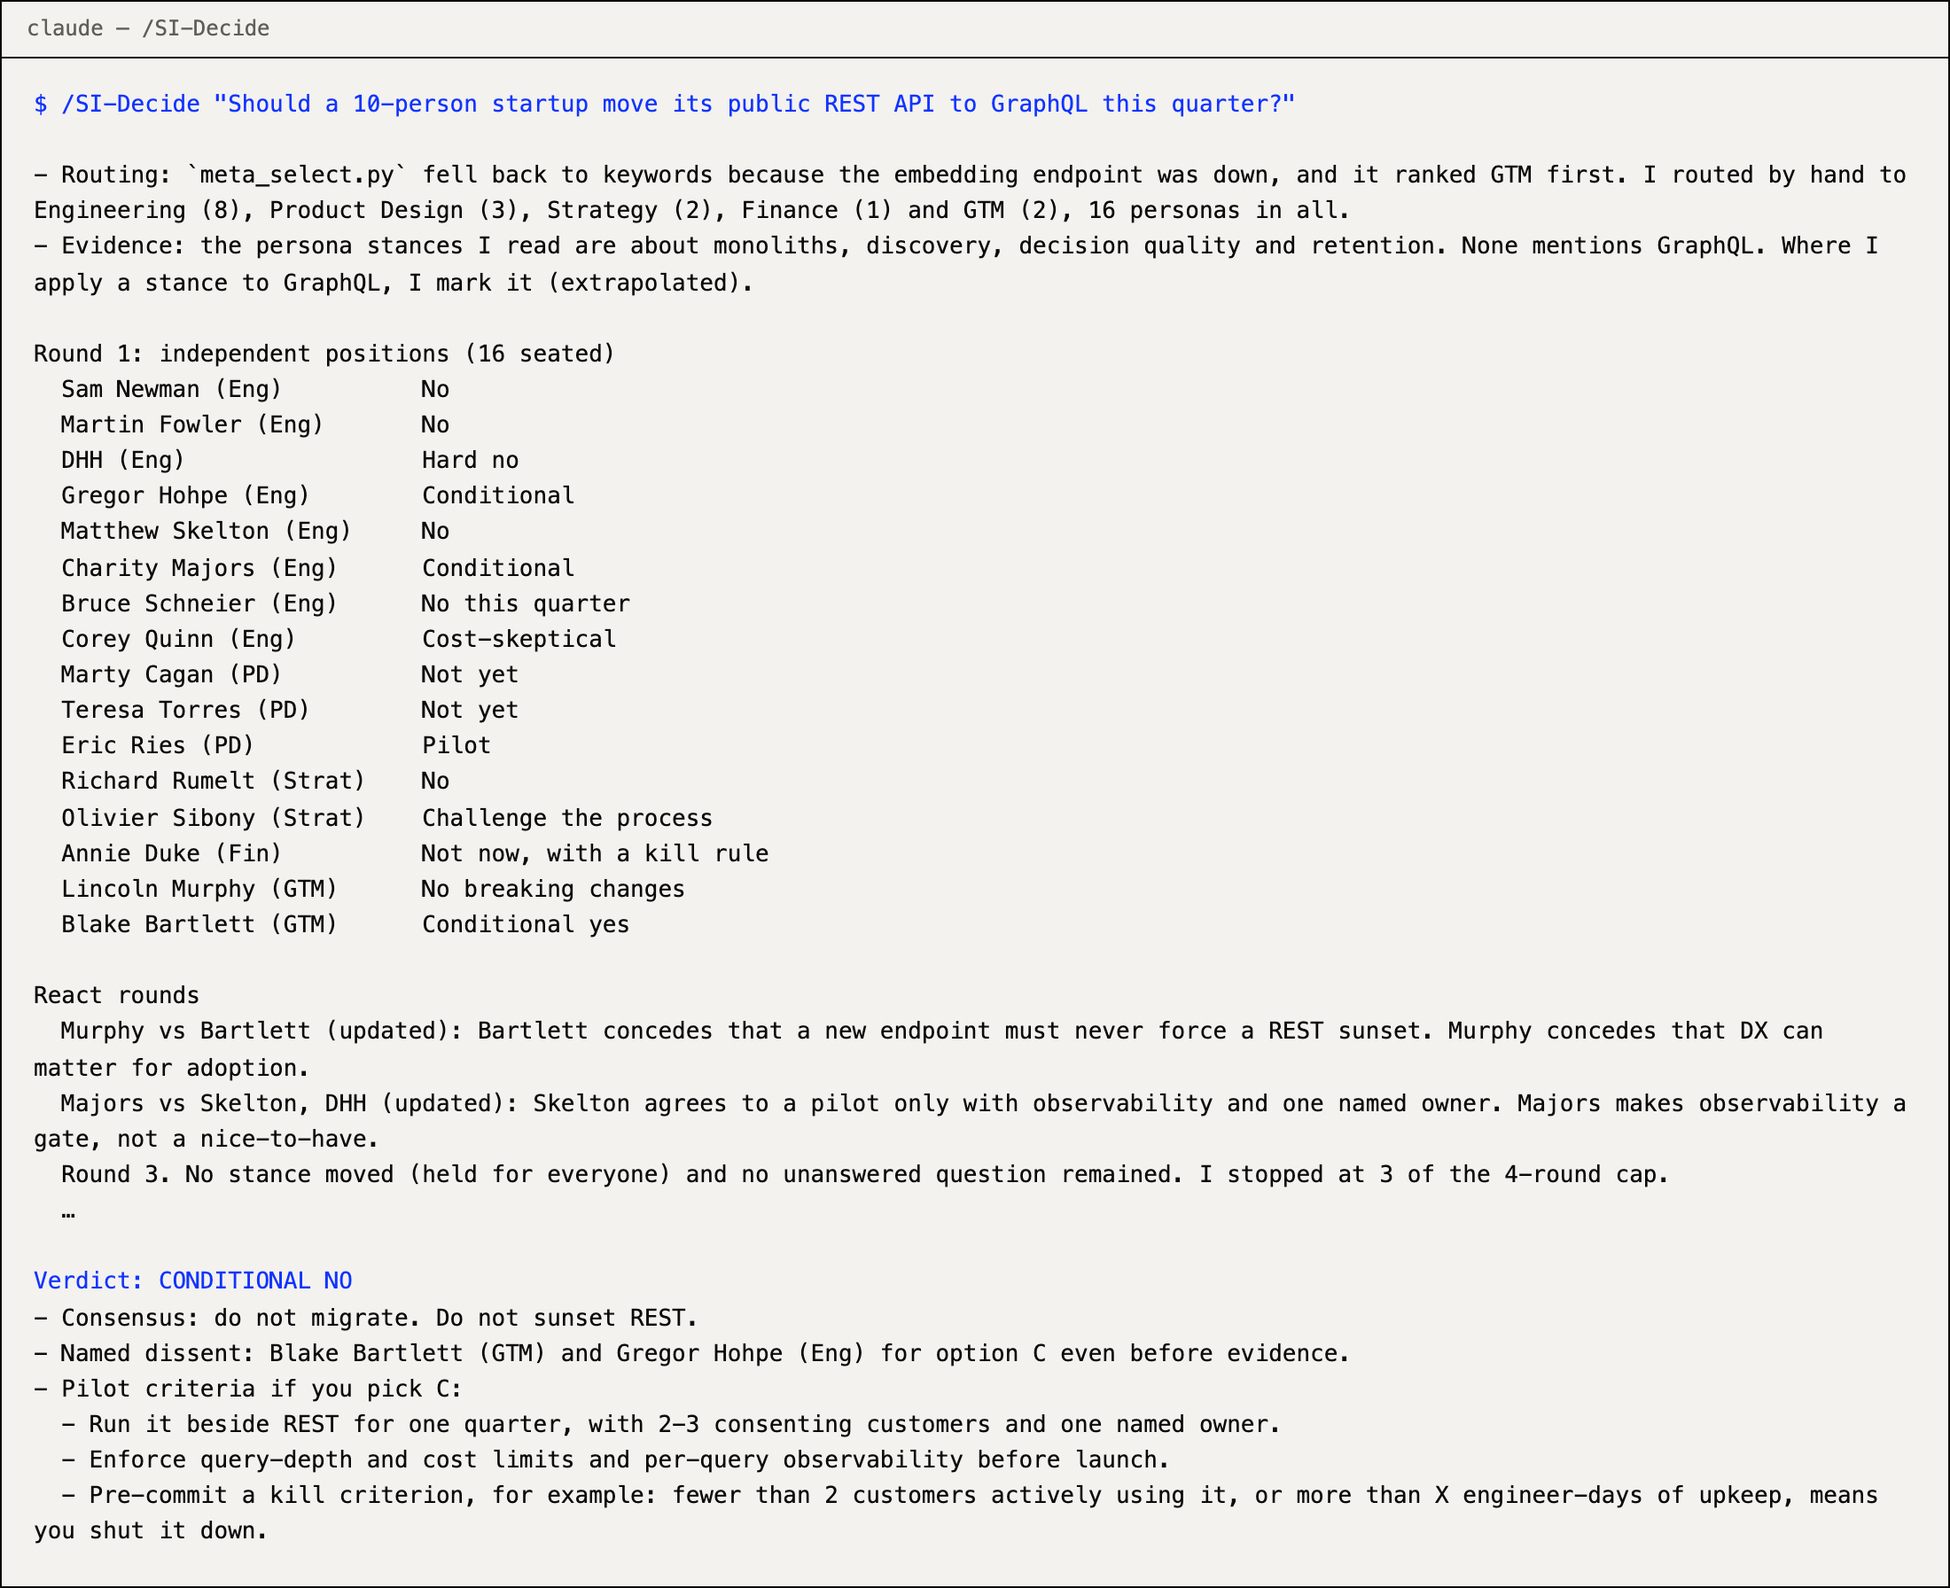
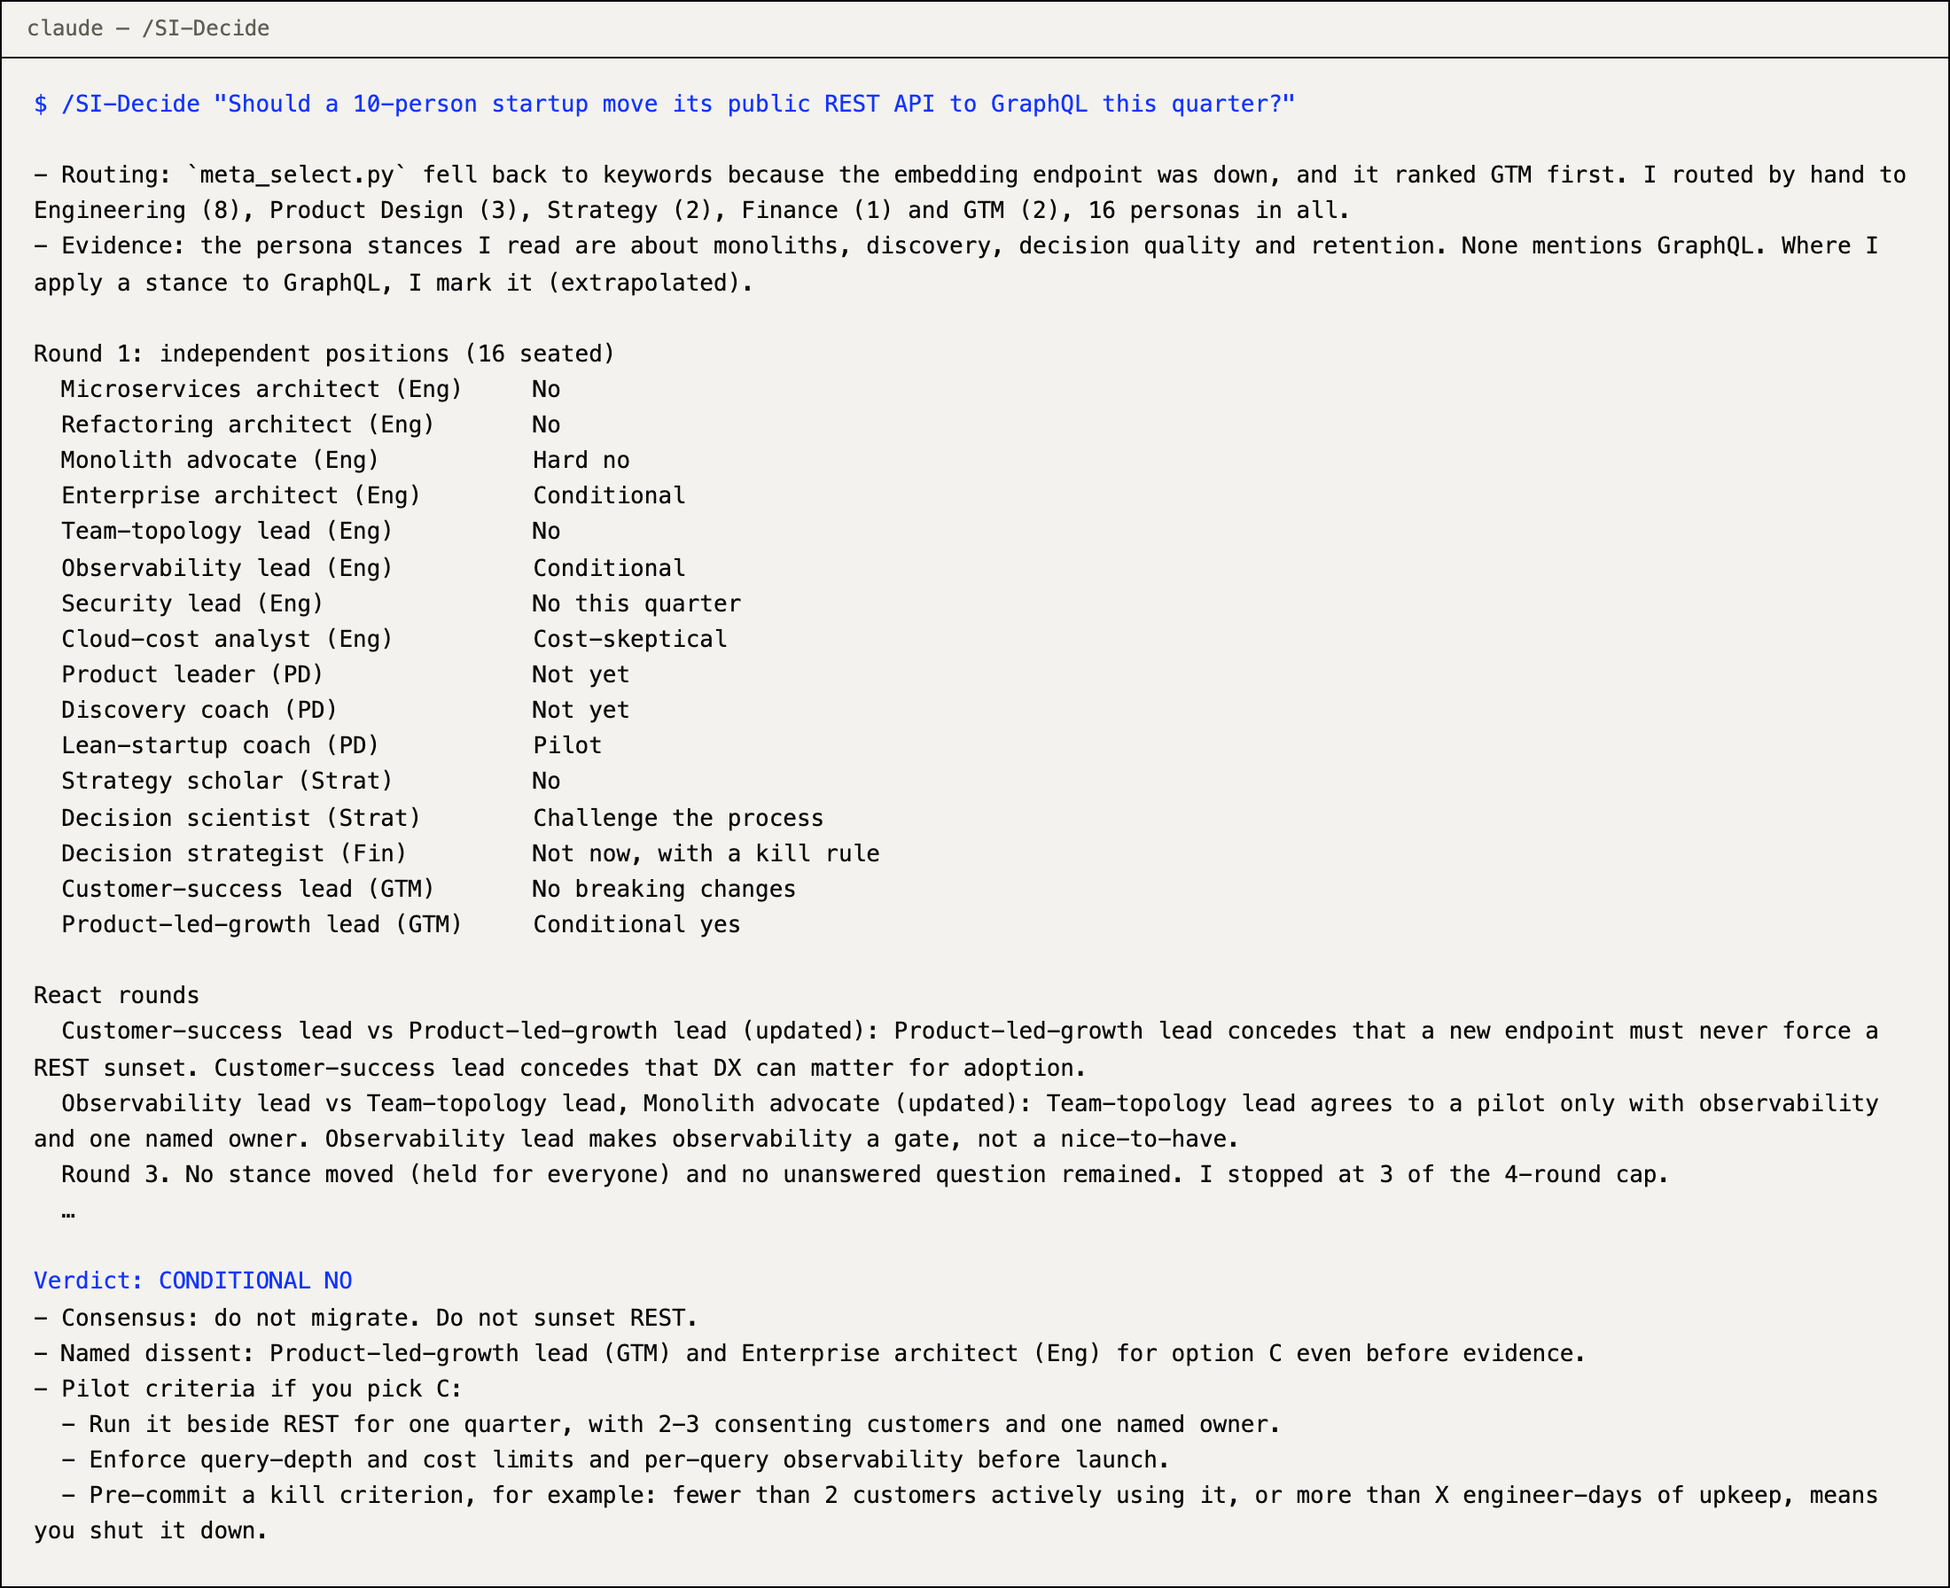
docs(readme): anonymise the /SI-Decide capture to role archetypes
VP decision: a public README must not show real, named people with
verdicts they never gave, even with a disclaimer. The capture and the
committed full output now use role archetypes (e.g. "Observability
lead (Eng)") instead of persona names; the README labels it an
illustration built from a real run, and the caption is neutral:
"Personas are simulated from public writing and are not the views of
any real person." Checked against all 495 roster names: no hits.

diff --git a/docs/readme/terminal/si-decide-full.md b/docs/readme/terminal/si-decide-full.md
@@ -1,8 +1,8 @@
-# Full output of one real `/SI-Decide` run
+# Full output of one real `/SI-Decide` run, with persona names replaced by role archetypes
 
 Command: `/SI-Decide "Should a 10-person startup move its public REST API to GraphQL this quarter?"`  
 Model: Claude Sonnet 5.5, headless Claude Code, 2026-09-30, 9 turns, US$0.41.  
-Unedited below. The two "Next action" lines come from the global style rules of the machine it ran on, not from CoCo; the README capture (`si-decide-run.txt`) trims them, keeps the persona and position columns only, and changes no words.
+Persona names are replaced by role archetypes (personas are simulated from public writing and are not the views of any real person; see systems/superintelligence/DISCLAIMER.md). Otherwise unedited below. The two "Next action" lines come from the global style rules of the machine it ran on, not from CoCo; the README capture (`si-decide-run.txt`) trims them, keeps the persona and position columns only, and changes no words.
 
 ---
 
@@ -18,32 +18,32 @@ Two caveats first:
 
 | Persona (team) | Position | Reasoning | Open question |
 |---|---|---|---|
-| Sam Newman (Eng) | No | "Default to a monolith… not a good choice for most startups" *(extrapolated: a new API layer is a new distributed surface)* | for: gregor-hohpe, what is the reversible version? |
-| Martin Fowler (Eng) | No | The "microservice premium" and prerequisites logic: pay a complexity premium only once the simple thing hurts *(extrapolated)* | for: anyone, who actually hurts today? |
-| DHH (Eng) | Hard no | Programmer happiness, majestic monolith, operational tax. A rewrite for fashion is the tax. *(extrapolated)* | for: blake-bartlett, is DX a growth lever or a theory? |
-| Gregor Hohpe (Eng) | Conditional | "Architecture decisions are economic decisions: sell options, make choices reversible." Add GraphQL beside REST, don't replace it. | for: lincoln-murphy, what does deprecation cost customers? |
-| Matthew Skelton (Eng) | No | Cognitive load and team topology: 10 people have no spare capacity for two API stacks *(extrapolated)* | for: charity-majors, can you observe it? |
-| Charity Majors (Eng) | Conditional | "You are already testing in production"; GraphQL's single endpoint hides per-query cost, so ship it only with wide-event observability *(extrapolated)* | for: matthew-skelton |
-| Bruce Schneier (Eng) | No this quarter | "Security is a process, not a product." Public, arbitrary-depth queries widen the attack surface; rate-limit and cost controls come first *(extrapolated)* | for: anyone, who owns query-cost limits? |
-| Corey Quinn (Eng) | Cost-skeptical | "Every line item is an architecture decision." Resolver fan-out and egress show up on the bill *(extrapolated)* | for: dhh |
-| Marty Cagan (PD) | Not yet | Teams get problems, not features. "Migrate to GraphQL" is a solution with no stated problem. Clear value risk first. | for: eric-ries, is this a test or a build? |
-| Teresa Torres (PD) | Not yet | Weekly customer touchpoints and an opportunity tree. Ask integrators what they struggle with before choosing a solution. | for: anyone, have 5 integrators been asked? |
-| Eric Ries (PD) | Pilot | An MVP is a learning vehicle. Expose one GraphQL endpoint to 2-3 willing customers and measure. | for: marty-cagan |
-| Richard Rumelt (Strat) | No | "Strategy must begin with challenges, not aspirations." There is no crux here, so it is a fashion move. | for: anyone, what is the bottleneck on growth? |
-| Olivier Sibony (Strat) | Challenge the process | Improve decision architecture, not just individual biases. Who is pushing this and why? Run a pre-mortem and a devil's advocate. | for: annie-duke |
-| Annie Duke (Fin) | Not now, with a kill rule | Judge the decision by its reasoning, not its outcome. Quitting is a rational choice. Pre-commit a kill criterion for any pilot. | for: eric-ries |
-| Lincoln Murphy (GTM) | No breaking changes | Customer success means customers reach their desired outcome. A forced REST sunset breaks integrators who were succeeding. | for: blake-bartlett |
-| Blake Bartlett (GTM) | Conditional yes | PLG needs a frictionless "value before payment" path. If the API is the product, DX can be the growth surface. | for: lincoln-murphy, dhh |
+| Microservices architect (Eng) | No | "Default to a monolith… not a good choice for most startups" *(extrapolated: a new API layer is a new distributed surface)* | for: enterprise-architect, what is the reversible version? |
+| Refactoring architect (Eng) | No | The "microservice premium" and prerequisites logic: pay a complexity premium only once the simple thing hurts *(extrapolated)* | for: anyone, who actually hurts today? |
+| Monolith advocate (Eng) | Hard no | Programmer happiness, majestic monolith, operational tax. A rewrite for fashion is the tax. *(extrapolated)* | for: product-led-growth-lead, is DX a growth lever or a theory? |
+| Enterprise architect (Eng) | Conditional | "Architecture decisions are economic decisions: sell options, make choices reversible." Add GraphQL beside REST, don't replace it. | for: customer-success-lead, what does deprecation cost customers? |
+| Team-topology lead (Eng) | No | Cognitive load and team topology: 10 people have no spare capacity for two API stacks *(extrapolated)* | for: observability-lead, can you observe it? |
+| Observability lead (Eng) | Conditional | "You are already testing in production"; GraphQL's single endpoint hides per-query cost, so ship it only with wide-event observability *(extrapolated)* | for: team-topology-lead |
+| Security lead (Eng) | No this quarter | "Security is a process, not a product." Public, arbitrary-depth queries widen the attack surface; rate-limit and cost controls come first *(extrapolated)* | for: anyone, who owns query-cost limits? |
+| Cloud-cost analyst (Eng) | Cost-skeptical | "Every line item is an architecture decision." Resolver fan-out and egress show up on the bill *(extrapolated)* | for: monolith-advocate |
+| Product leader (PD) | Not yet | Teams get problems, not features. "Migrate to GraphQL" is a solution with no stated problem. Clear value risk first. | for: lean-startup-coach, is this a test or a build? |
+| Discovery coach (PD) | Not yet | Weekly customer touchpoints and an opportunity tree. Ask integrators what they struggle with before choosing a solution. | for: anyone, have 5 integrators been asked? |
+| Lean-startup coach (PD) | Pilot | An MVP is a learning vehicle. Expose one GraphQL endpoint to 2-3 willing customers and measure. | for: product-leader |
+| Strategy scholar (Strat) | No | "Strategy must begin with challenges, not aspirations." There is no crux here, so it is a fashion move. | for: anyone, what is the bottleneck on growth? |
+| Decision scientist (Strat) | Challenge the process | Improve decision architecture, not just individual biases. Who is pushing this and why? Run a pre-mortem and a devil's advocate. | for: decision-strategist |
+| Decision strategist (Fin) | Not now, with a kill rule | Judge the decision by its reasoning, not its outcome. Quitting is a rational choice. Pre-commit a kill criterion for any pilot. | for: lean-startup-coach |
+| Customer-success lead (GTM) | No breaking changes | Customer success means customers reach their desired outcome. A forced REST sunset breaks integrators who were succeeding. | for: product-led-growth-lead |
+| Product-led-growth lead (GTM) | Conditional yes | PLG needs a frictionless "value before payment" path. If the API is the product, DX can be the growth surface. | for: customer-success-lead, monolith-advocate |
 
 ## React rounds
 
 **Round 2.** Only listed conflict pairs reacted.
-- **DHH vs Newman, Fowler** (*held*): all three agree on "no". DHH is blunter: a rewrite is the tax.
-- **Cagan vs Ries** (*sharpened*): Ries concedes that a pilot is only a valid MVP if it tests a stated hypothesis. Cagan concedes a small pilot is acceptable once the problem is named.
-- **Hohpe vs Newman, DHH** (*held*): Hohpe keeps the additive, reversible option. Newman accepts it only if REST stays the source of truth.
-- **Murphy vs Bartlett** (*updated*): Bartlett concedes that a new endpoint must never force a REST sunset. Murphy concedes that DX can matter for adoption.
-- **Majors vs Skelton, DHH** (*updated*): Skelton agrees to a pilot only with observability and one named owner. Majors makes observability a gate, not a nice-to-have.
-- **Duke vs Sibony** (*sharpened*): both want a pre-committed kill criterion and a named dissenter.
+- **Monolith advocate vs Microservices architect, Refactoring architect** (*held*): all three agree on "no". Monolith advocate is blunter: a rewrite is the tax.
+- **Product leader vs Lean-startup coach** (*sharpened*): Lean-startup coach concedes that a pilot is only a valid MVP if it tests a stated hypothesis. Product leader concedes a small pilot is acceptable once the problem is named.
+- **Enterprise architect vs Microservices architect, Monolith advocate** (*held*): Enterprise architect keeps the additive, reversible option. Microservices architect accepts it only if REST stays the source of truth.
+- **Customer-success lead vs Product-led-growth lead** (*updated*): Product-led-growth lead concedes that a new endpoint must never force a REST sunset. Customer-success lead concedes that DX can matter for adoption.
+- **Observability lead vs Team-topology lead, Monolith advocate** (*updated*): Team-topology lead agrees to a pilot only with observability and one named owner. Observability lead makes observability a gate, not a nice-to-have.
+- **Decision strategist vs Decision scientist** (*sharpened*): both want a pre-committed kill criterion and a named dissenter.
 
 **Round 3.** No stance moved (`held` for everyone) and no unanswered question remained. I stopped at 3 of the 4-round cap.
 
@@ -51,17 +51,17 @@ Two caveats first:
 
 | Option | Eng | Product Design | Strategy | Finance | GTM | Net |
 |---|---|---|---|---|---|---|
-| A. Full REST-to-GraphQL migration this quarter | Newman, Fowler, DHH, Skelton, Schneier: no | Cagan, Torres: no problem named | Rumelt: no crux; Sibony: process unexamined | Duke: no kill rule | Murphy: breaks integrators | **Reject** |
-| B. Keep REST, do nothing | Hohpe: forgoes options | Torres: ask first | Rumelt: fine if no crux | Duke: fine | Bartlett: risk if DX is the bottleneck | **Default** |
-| C. Additive GraphQL pilot, REST untouched | Hohpe, Majors: yes with gates | Ries, Cagan: yes if hypothesis-driven | Sibony: yes with kill criteria | Duke: yes with a kill rule | Bartlett: yes; Murphy: yes if no sunset | **Conditional** |
+| A. Full REST-to-GraphQL migration this quarter | Microservices architect, Refactoring architect, Monolith advocate, Team-topology lead, Security lead: no | Product leader, Discovery coach: no problem named | Strategy scholar: no crux; Decision scientist: process unexamined | Decision strategist: no kill rule | Customer-success lead: breaks integrators | **Reject** |
+| B. Keep REST, do nothing | Enterprise architect: forgoes options | Discovery coach: ask first | Strategy scholar: fine if no crux | Decision strategist: fine | Product-led-growth lead: risk if DX is the bottleneck | **Default** |
+| C. Additive GraphQL pilot, REST untouched | Enterprise architect, Observability lead: yes with gates | Lean-startup coach, Product leader: yes if hypothesis-driven | Decision scientist: yes with kill criteria | Decision strategist: yes with a kill rule | Product-led-growth lead: yes; Customer-success lead: yes if no sunset | **Conditional** |
 
-**Where one team's lens overrides another's:** Engineering (cost, load, risk) and Strategy (no crux) override Growth (Bartlett) on timing. Customer success (Murphy) overrides any "retire REST" instinct.
+**Where one team's lens overrides another's:** Engineering (cost, load, risk) and Strategy (no crux) override Growth (Product-led-growth lead) on timing. Customer success (Customer-success lead) overrides any "retire REST" instinct.
 
 ## Verdict: CONDITIONAL NO
 
 - **Consensus:** do not migrate. Do not sunset REST.
-- **Unresolved disagreement:** Bartlett and Hohpe would still run a pilot to find out whether DX is a growth lever. DHH and Rumelt would run nothing without a named problem. This did not resolve because it depends on a fact I don't have: whether integrators are complaining.
-- **Named dissent:** Blake Bartlett (GTM) and Gregor Hohpe (Eng) for option C even before evidence. Dan Mall-style "ship and see" is not on the panel.
+- **Unresolved disagreement:** Product-led-growth lead and Enterprise architect would still run a pilot to find out whether DX is a growth lever. Monolith advocate and Strategy scholar would run nothing without a named problem. This did not resolve because it depends on a fact I don't have: whether integrators are complaining.
+- **Named dissent:** Product-led-growth lead (GTM) and Enterprise architect (Eng) for option C even before evidence. A "ship and see" voice is not on the panel.
 - **Open questions for you:**
   1. Who asked for GraphQL, and what can't they do with REST?
   2. Is the API a growth surface (PLG) or a back-office integration?

diff --git a/README.md b/README.md
@@ -23,12 +23,12 @@ A hard call in a coding session usually gets one model's opinion, with no name o
 
 <picture>
   <source media="(prefers-color-scheme: dark)" srcset="docs/readme/si-decide-dark.png">
-  <img src="docs/readme/si-decide-light.png" width="100%" alt="Terminal capture of /SI-Decide: Should a 10-person startup move its public REST API to GraphQL this quarter? Sixteen personas from five departments give positions, react in rounds, and return a conditional no with two named dissenters.">
+  <img src="docs/readme/si-decide-light.png" width="100%" alt="Terminal capture of /SI-Decide: Should a 10-person startup move its public REST API to GraphQL this quarter? Sixteen personas, shown as role archetypes from five departments, give positions, react in rounds, and return a conditional no with two named dissenters.">
 </picture>
 
-*Personas are simulated from each person's public writing. They are not the views of the real people, who are not affiliated with Coco. See the [persona disclaimer](systems/superintelligence/DISCLAIMER.md).*
+*Personas are simulated from public writing and are not the views of any real person. See the [persona disclaimer](systems/superintelligence/DISCLAIMER.md).*
 
-A real `/SI-Decide` run (Claude Sonnet 5.5, 30 September 2026, US$0.41). It is trimmed for length, with no words changed; the full output is in [`docs/readme/terminal/si-decide-full.md`](docs/readme/terminal/si-decide-full.md). Note what it admits: the embedding router was offline, so it fell back to keywords, and stances applied beyond their source are marked *extrapolated*.
+An illustration built from a real `/SI-Decide` run (Claude Sonnet 5.5, 30 September 2026, US$0.41). Persona names are replaced with role archetypes and the output is trimmed for length; no other words are changed. The full output, with the same replacements, is in [`docs/readme/terminal/si-decide-full.md`](docs/readme/terminal/si-decide-full.md). Note what it admits: the embedding router was offline, so it fell back to keywords, and stances applied beyond their source are marked *extrapolated*.
 
 ## Quick start
 
